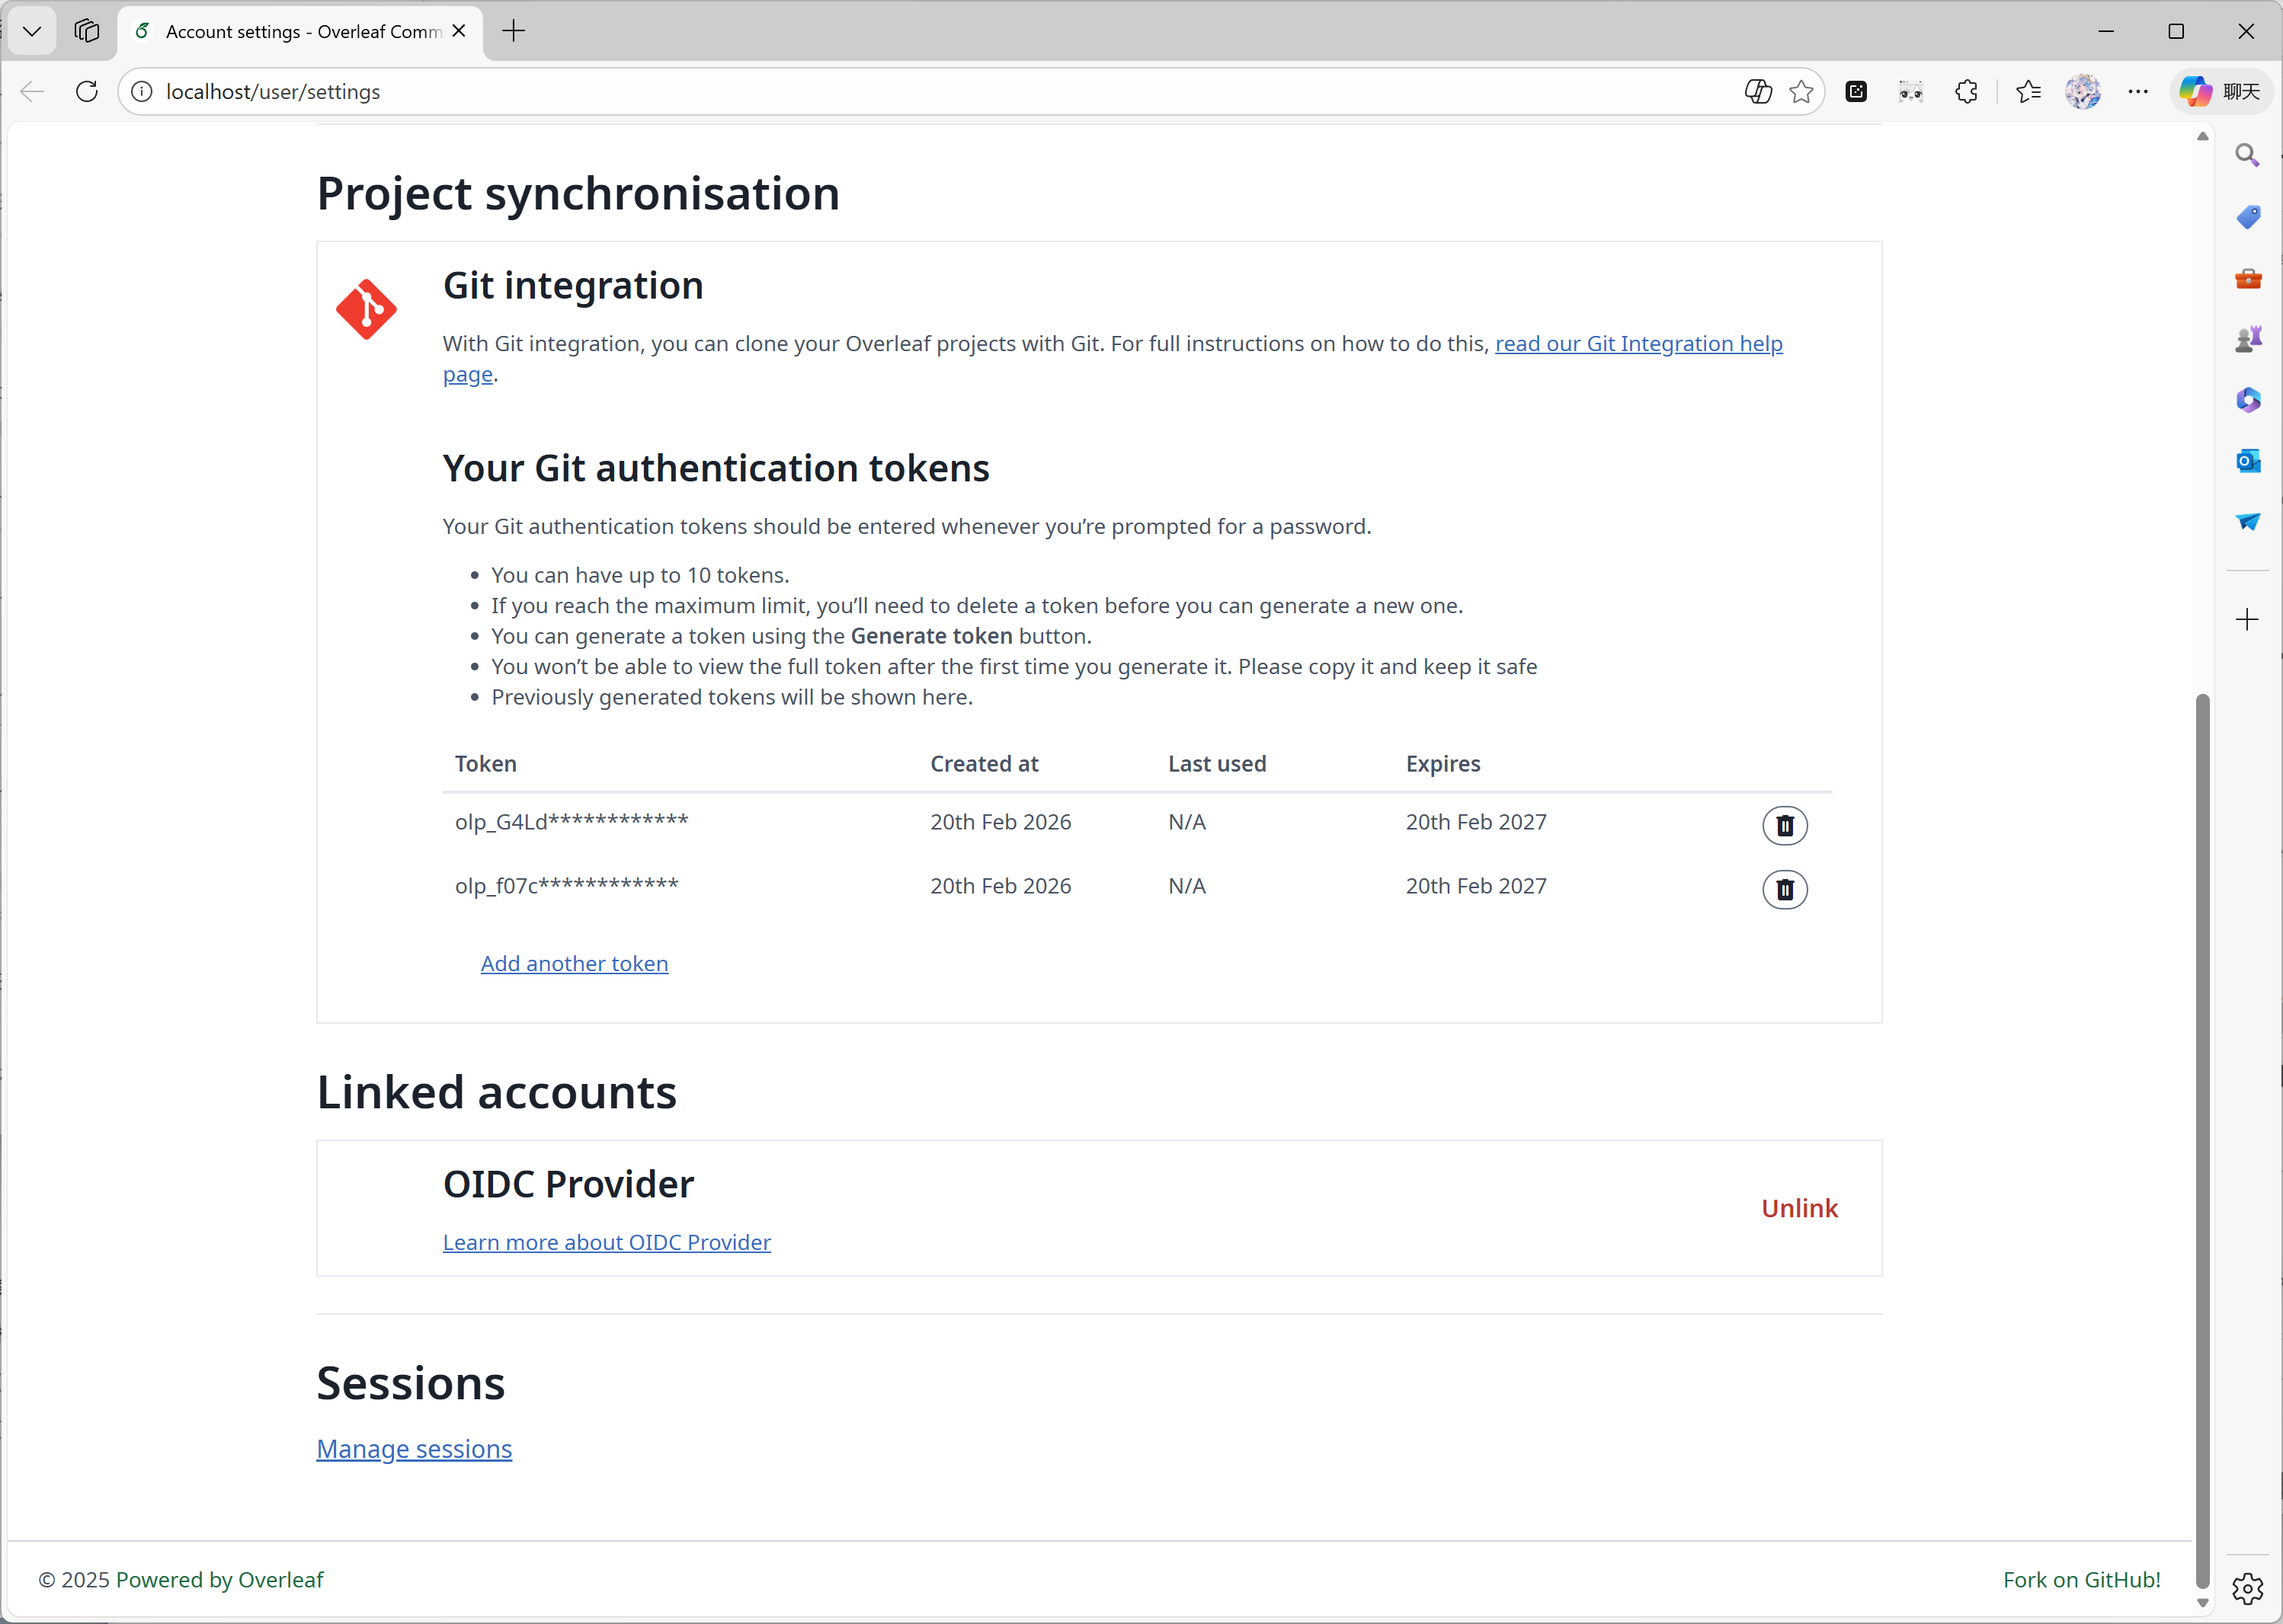
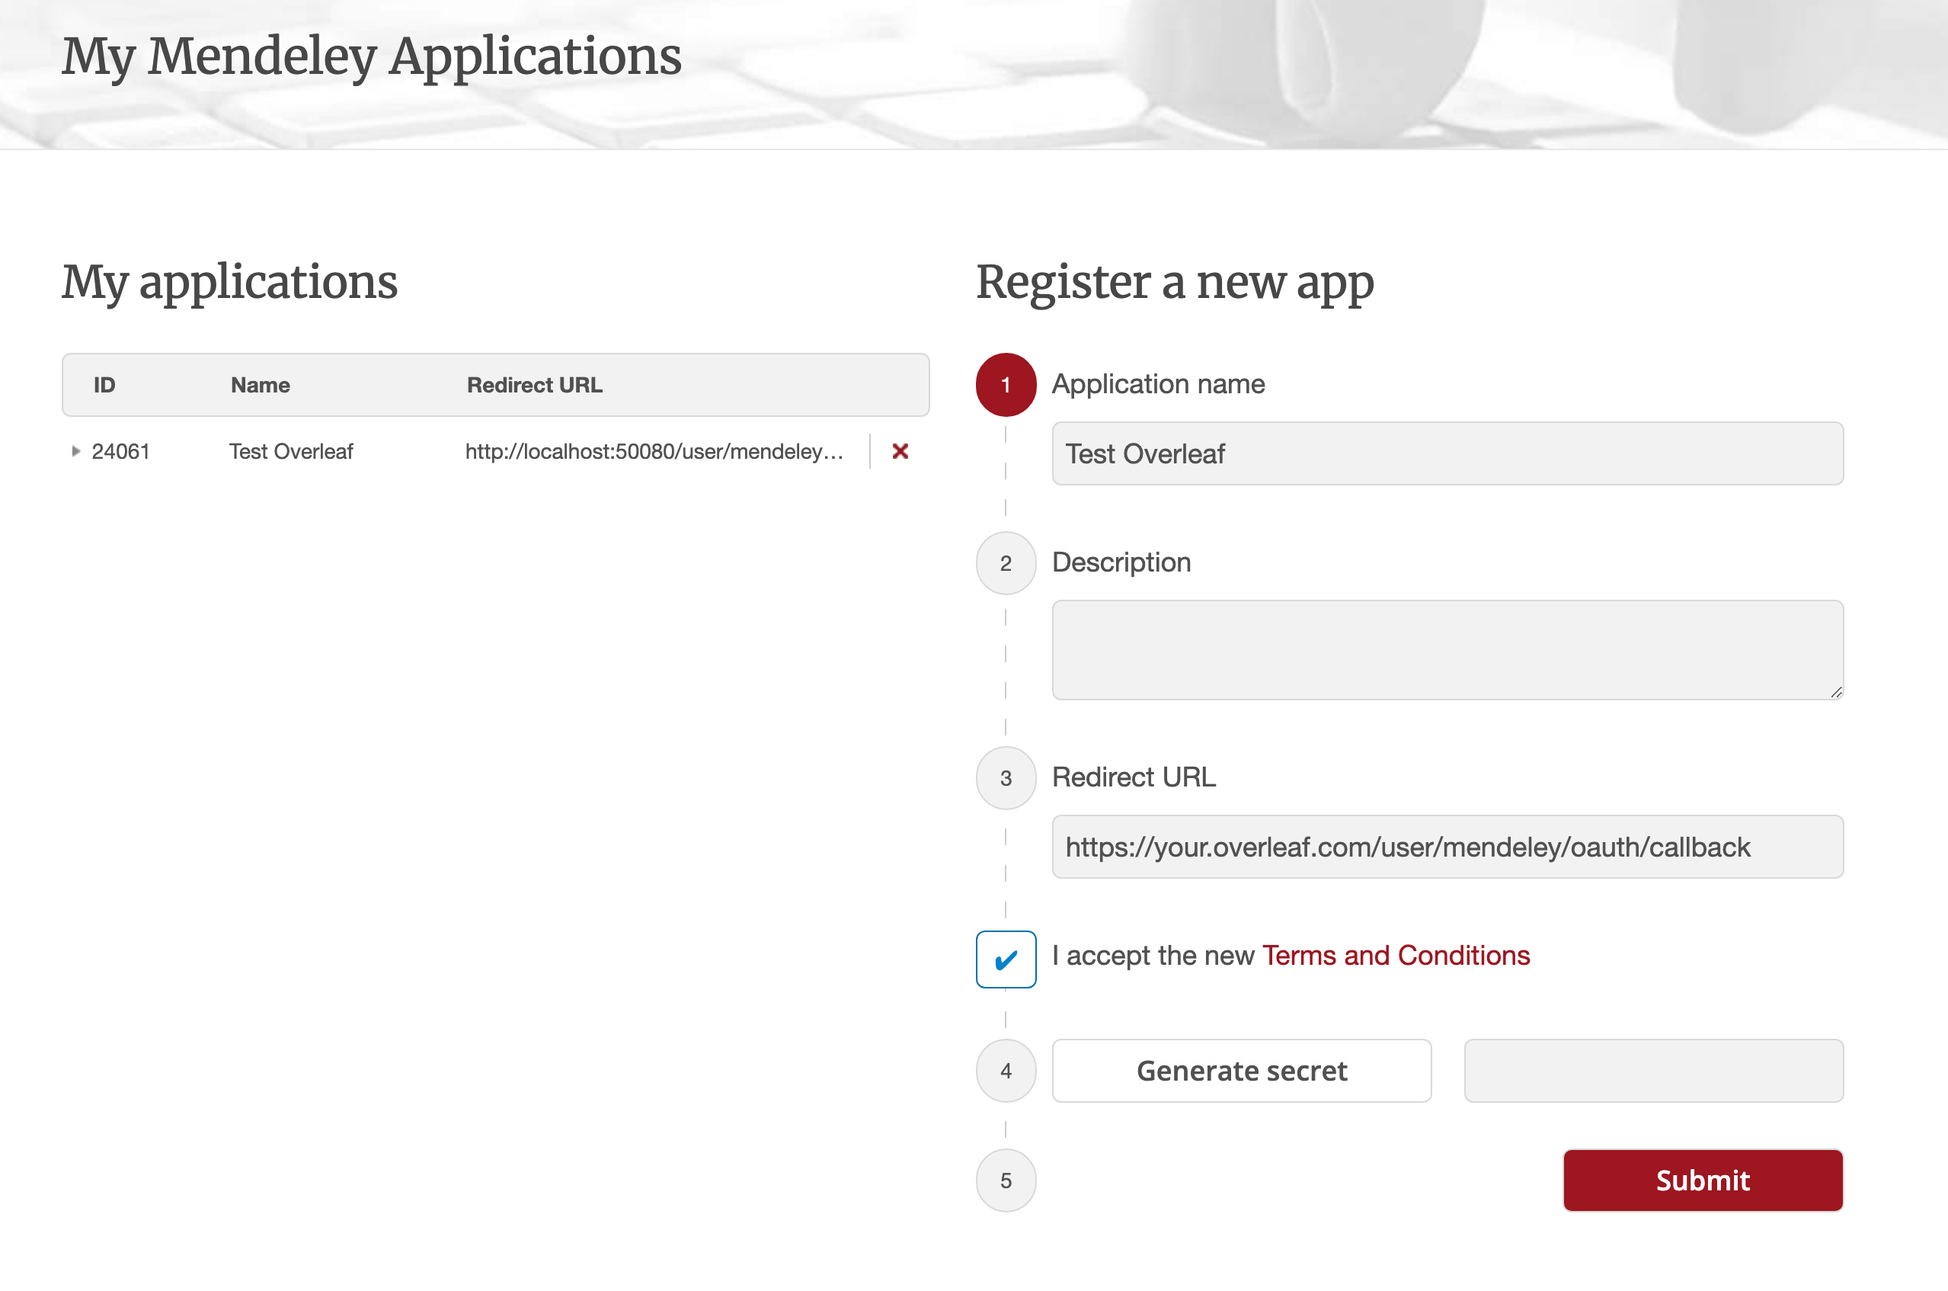
GITBOOK-59: No subject

diff --git a/docs/on-premises/configuration/overleaf-toolkit/sandboxed-compiles.md b/docs/on-premises/configuration/overleaf-toolkit/sandboxed-compiles.md
@@ -194,6 +194,98 @@ if (process.env.SANDBOXED_COMPILES === 'true') {
 ```
 {% endcode %}
 
+### Automated TeX Live Image Sync
+
+To avoid manual updates with `bin/up` your instance everytime, you can automate updates to your TeX Live image using the following script. Add it as a cron job, making sure the cron user has permission to run `docker`. Run `crontab -e` to add the following line to the end.
+
+{% code title="crontab -e" %}
+```cron
+0 * * * * /usr/bin/flock -n /tmp/pull-texlive.lock /usr/local/bin/pull-texlive.sh
+```
+{% endcode %}
+
+`flock -n` skips a run while the previous one still holds the lock, so a slow pull never piles up.
+
+{% tabs %}
+{% tab title="Direct Connect" %}
+{% code title="/usr/local/bin/pull-texlive.sh" %}
+```bash
+#!/usr/bin/env bash
+set -uo pipefail
+
+IMAGE="ghcr.io/ayaka-notes/texlive-full"
+TAGS=(2020.1 2021.1 2022.1 2023.1 2024.1 2025.1 2026.1)
+LOG=/var/log/pull-texlive.log
+
+exec >>"$LOG" 2>&1
+
+# Hours since the epoch, modulo the tag count: one tag per hour,
+# so all 7 tags are refreshed every 7 hours.
+idx=$(( $(date +%s) / 3600 % ${#TAGS[@]} ))
+tag="${TAGS[$idx]}"
+
+echo "===== $(date -Is) pulling $tag (idx=$idx) ====="
+
+if timeout 50m docker pull "$IMAGE:$tag"; then
+  echo "OK   $tag"
+else
+  echo "FAIL $tag (exit $?)"
+fi
+
+docker image prune -f
+docker system df | tail -n +2
+```
+{% endcode %}
+{% endtab %}
+
+{% tab title="Using Mirror Site" %}
+{% code title="/usr/local/bin/pull-texlive.sh" %}
+```bash
+#!/usr/bin/env bash
+set -uo pipefail
+
+MIRROR="ghcr.nju.edu.cn"
+CANONICAL="ghcr.io"
+REPO="ayaka-notes/texlive-full"
+TAGS=(2020.1 2021.1 2022.1 2023.1 2024.1 2025.1 2026.1)
+LOG=/var/log/pull-texlive.log
+
+exec >>"$LOG" 2>&1
+
+# Hours since the epoch, modulo the tag count: one tag per hour,
+# so all 7 tags are refreshed every 7 hours.
+idx=$(( $(date +%s) / 3600 % ${#TAGS[@]} ))
+tag="${TAGS[$idx]}"
+
+echo "===== $(date -Is) pulling $tag (idx=$idx) via $MIRROR ====="
+
+if timeout 50m docker pull "$MIRROR/$REPO:$tag"; then
+  # Retag to the canonical name the compiler is configured with. This only
+  # adds a second name for the same layers; nothing is copied.
+  docker tag "$MIRROR/$REPO:$tag" "$CANONICAL/$REPO:$tag"
+  echo "OK   $tag"
+else
+  echo "FAIL $tag (exit $?)"
+fi
+
+docker image prune -f
+docker system df | tail -n +2
+```
+{% endcode %}
+{% endtab %}
+{% endtabs %}
+
+**Why hourly rotation instead of pulling everything at once**: the tag is derived from the wall clock (hours since the epoch, modulo the number of tags), so the job is stateless — nothing records "where we left off", and the cycle realigns by itself after a reboot or a missed hour. Each run touches a single tag; when the registry digest has not changed, the pull is only a manifest check (`Image is up to date`) and finishes in seconds. A real update downloads at most one image per hour, capped by `timeout 50m`, and `docker image prune -f` drops the layers orphaned by the tag moving.
+
+To check that the sync is healthy:
+
+```bash
+tail -20 /var/log/pull-texlive.log     # each run ends with "OK <tag>" or "FAIL <tag>"
+grep -c '^FAIL' /var/log/pull-texlive.log
+```
+
+When a new TeX Live release is published, append its tag to the `TAGS` array — the rotation length adapts automatically. Hours when the host is powered off are skipped, not queued; the affected tags simply refresh on their next turn.
+
 ### Known Issues
 
 This is a real case from overleaf community:

diff --git a/docs/on-premises/configuration/overleaf-toolkit/mendeley-integration.md b/docs/on-premises/configuration/overleaf-toolkit/mendeley-integration.md
@@ -1,0 +1,51 @@
+---
+icon: mendeley
+---
+
+# Mendeley Integration
+
+{% hint style="info" %}
+This capability is provided by [ayaka-notes/overleaf-pro](https://github.com/ayaka-notes/overleaf-pro) with OAuth 2.0 support. It will be introduced from v6.3.0 and later. We need your feedback if you have any problem.
+{% endhint %}
+
+#### Setup Mendeley Integration
+
+1. Navigate to [this link](https://dev.mendeley.com/myapps.html) to register a Mendeley OAuth application
+2. Configure **Redirect URL** as: `${OVERLEAF_SITE_URL}/user/mendeley/oauth/callback`
+3. Note the generated **ID** (ususally digital like `24061` as below) and **Secret** of your application
+4. Modify your `config/variables.env`&#x20;
+5. Just keep Authorisation Flow: Elsevier (as recommended)
+
+<figure><img src="../../.gitbook/assets/image (10).png" alt=""><figcaption></figcaption></figure>
+
+<pre class="language-dotenv" data-title="config/variables.env"><code class="lang-dotenv">#################
+#   Mendeley    #
+#################
+# 'mendeley' must be in ENABLED_LINKED_FILE_TYPES (keep 'zotero' too if you use both)
+<strong>ENABLED_LINKED_FILE_TYPES=project_file,project_output_file,url,mendeley
+</strong>
+# From a Mendeley OAuth application (register at https://dev.mendeley.com/myapps.html)
+# Redirect URL -> ${OVERLEAF_SITE_URL}/user/mendeley/oauth/callback
+MENDELEY_CLIENT_ID=
+MENDELEY_CLIENT_SECRET=
+# Encrypts the Mendeley OAuth tokens in mongo; if unset, a key file is generated
+# in /var/lib/overleaf/data on first use
+# How to generate: `openssl rand -hex 32`
+MENDELEY_CIPHER_PASSWORD=
+# Optional: route the module's server-side Mendeley requests (OAuth + API) through
+# an HTTP proxy (must be reachable from the web container; same as github-sync)
+# http://10.0.0.1:10808
+# (Optional) MENDELEY_PROXY_URL=
+</code></pre>
+
+{% hint style="info" %}
+&#x20;`mendeley` must be included in `ENABLED_LINKED_FILE_TYPES` (keep `zotero` in the list too if you use both). `MENDELEY_CLIENT_ID` and `MENDELEY_CLIENT_SECRET` come from your registered OAuth application. The cipher password encrypts the Mendeley OAuth tokens in MongoDB (generate one via `openssl rand -hex 32`); without it a key file is generated in the data volume on first use. Optionally set `MENDELEY_PROXY_URL` to route the server-side Mendeley requests (OAuth + API) through an HTTP proxy accessible from the web container.
+{% endhint %}
+
+### Notes
+
+{% hint style="danger" %}
+Since Ayakaleaf is a collaborative platform, to improve security, starting with version 6.3.0, only the original creator of a Reference `bib` file will be allowed to update the imported file.
+{% endhint %}
+
+For example, suppose the project owner, User A, enables link sharing and creates a `test.bib` file in the project, linking it to their own Zotero account. If another user, User B, accesses the project through the shared link, User B will still be able to read and download `test.bib`, but will not be allowed to update or re-import the file from Zotero. Only User A, as the original creator of the Reference file, can perform updates. Conversely, only the original creator of the `.bib` file has permission to update it.

diff --git a/docs/on-premises/configuration/overleaf-toolkit/zotero-integration.md b/docs/on-premises/configuration/overleaf-toolkit/zotero-integration.md
@@ -1,5 +1,5 @@
 ---
-icon: book-bookmark
+icon: z
 ---
 
 # Zotero Integration
@@ -16,19 +16,17 @@ This feature is initially developed by [davrot](https://github.com/davrot) and [
 
 1. Open [this link](https://www.zotero.org/oauth/apps) to create a Zotero OAuth client (as image shows)
 2. Choose **Application Type**: **Browser**
-3. Setup Callback URL with your `${OVERLEAF_SITE_URL}/user/zotero/oauth/callback`&#x20;
-4. Configure your `config/variables.env`&#x20;
+3. Setup Callback URL with your `${OVERLEAF_SITE_URL}/user/zotero/oauth/callback`
+4. Configure your `config/variables.env`
 
 <figure><img src="../../.gitbook/assets/image (31).png" alt="" width="375"><figcaption></figcaption></figure>
 
-{% code title="config/variables.env" %}
-```dotenv
-#################
+<pre class="language-dotenv" data-title="config/variables.env"><code class="lang-dotenv">#################
 #    Zotero     #
 #################
 # 'zotero' must be in ENABLED_LINKED_FILE_TYPES (set in develop/docker-compose.yml)
-ENABLED_LINKED_FILE_TYPES=project_file,project_output_file,url,zotero
-
+<strong>ENABLED_LINKED_FILE_TYPES=project_file,project_output_file,url,zotero
+</strong>
 # From a Zotero OAuth client (register at https://www.zotero.org/oauth/apps)
 # Application Type: Browser 
 # Callback URL -> ${OVERLEAF_SITE_URL}/user/zotero/oauth/callback
@@ -42,5 +40,12 @@ ZOTERO_CIPHER_PASSWORD=dev-zotero-cipher-password
 # an HTTP proxy (must be reachable from the web container; same as github-sync)
 # http://10.0.0.1:10808
 # (Optional) ZOTERO_PROXY_URL=
-```
-{% endcode %}
+</code></pre>
+
+### Notes
+
+{% hint style="danger" %}
+Since Ayakaleaf is a collaborative platform, to improve security, starting with version 6.3.0, only the original creator of a Reference `bib` file will be allowed to update the imported file.
+{% endhint %}
+
+For example, suppose the project owner, User A, enables link sharing and creates a `test.bib` file in the project, linking it to their own Zotero account. If another user, User B, accesses the project through the shared link, User B will still be able to read and download `test.bib`, but will not be allowed to update or re-import the file from Zotero. Only User A, as the original creator of the Reference file, can perform updates. Conversely, only the original creator of the `.bib` file has permission to update it.

diff --git a/docs/on-premises/SUMMARY.md b/docs/on-premises/SUMMARY.md
@@ -51,6 +51,7 @@
   * [Git integration](configuration/overleaf-toolkit/git-integration.md)
   * [GitHub Synchronisation](configuration/overleaf-toolkit/github-synchronisation.md)
   * [Zotero Integration](configuration/overleaf-toolkit/zotero-integration.md)
+  * [Mendeley Integration](configuration/overleaf-toolkit/mendeley-integration.md)
   * [Templates](configuration/overleaf-toolkit/templates.md)
   * [External URL](configuration/overleaf-toolkit/external-url.md)
   * [Logging](configuration/overleaf-toolkit/logging.md)
